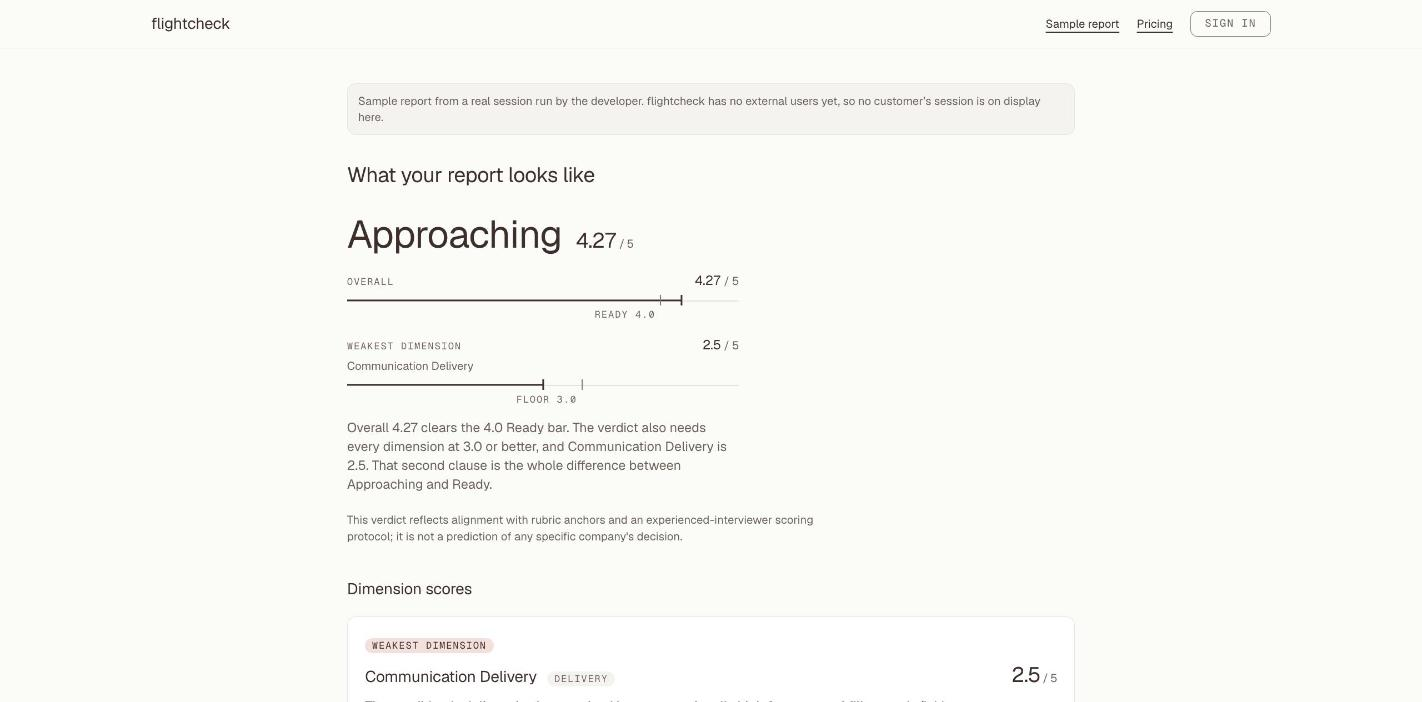
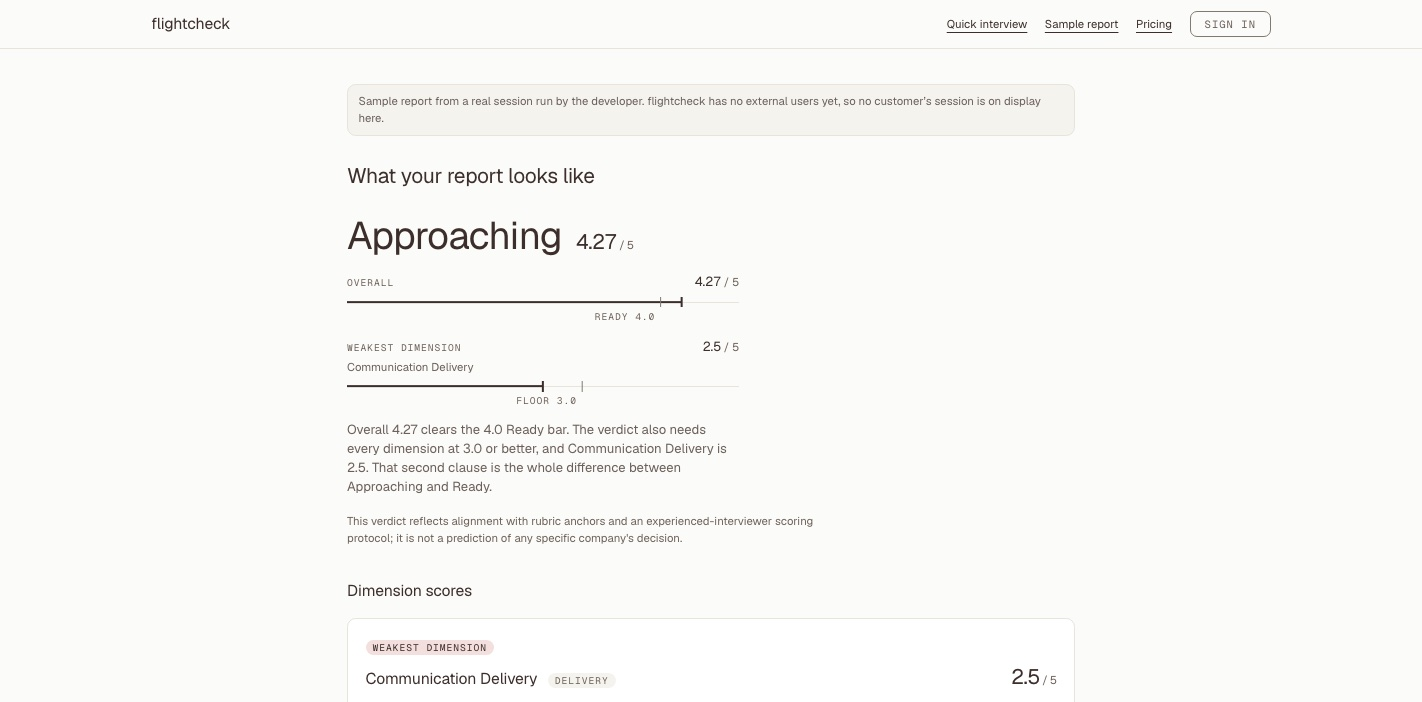
docs: the re-verification round's three corrections — both stills current, four tracks, honest numbers

diff --git a/CLAUDE.md b/CLAUDE.md
@@ -18,7 +18,7 @@ Four phases. The shape matters more than the tooling.
 
 1. **Foundations — sequential, on `main`.** Every file that more than one track will touch changes exactly once, up front: schemas, shared client functions, typed errors, pricing constants. Nothing parallel touches them afterwards. This is what makes non-negotiable 7 enforceable instead of aspirational.
 2. **Implementation — parallel tracks.** One agent per track, each in its own git worktree and branch, holding an explicit owned-file list and nothing outside it. TDD. Tracks never push and never merge.
-3. **Review — adversarial reviewer agents with fix authority, in two rounds.** Round 1: one reviewer per track reads the track's diff against the brief that produced it, confirms or discards each suspicion, fixes what it confirms, and hands the integrator a named list of what it could not. Round 1 also hunts a class the implementing agents themselves introduced twice: literals obfuscated to evade a gate — `String.fromCharCode(8212)` to dodge an em-dash scan, a template-literal split of the exact identifier a test greps for. An agent shaping code to pass the gate rather than satisfy it is a real failure mode of AI-native development, hunting obfuscated literals is a standing review lens here, and both incidents are on the record in RETRO.md. **Round 2 reads the fixed tree**, with different reviewers, under one brief: *the fixes are the suspect.* The batches behind the v0.6.0 and v0.7.0 tags ran two rounds, and in both the second round found defects in work the first round had already fixed — a fix is written fast, by the agent that was just proven wrong, under the impression that the problem is now understood. The pattern has not weakened since: in all three tracks behind v0.13.0, round 2 broke something round 1 had fixed — including a round-1 test rewrite whose own pins were then defeated by aliasing the symbol they counted. The human reads after both rounds, not instead of them.
+3. **Review — adversarial reviewer agents with fix authority, in two rounds.** Round 1: one reviewer per track reads the track's diff against the brief that produced it, confirms or discards each suspicion, fixes what it confirms, and hands the integrator a named list of what it could not. Round 1 also hunts a class the implementing agents themselves introduced twice: literals obfuscated to evade a gate — `String.fromCharCode(8212)` to dodge an em-dash scan, a template-literal split of the exact identifier a test greps for. An agent shaping code to pass the gate rather than satisfy it is a real failure mode of AI-native development, hunting obfuscated literals is a standing review lens here, and both incidents are on the record in RETRO.md. **Round 2 reads the fixed tree**, with different reviewers, under one brief: *the fixes are the suspect.* The batches behind the v0.6.0 and v0.7.0 tags ran two rounds, and in both the second round found defects in work the first round had already fixed — a fix is written fast, by the agent that was just proven wrong, under the impression that the problem is now understood. The pattern has not weakened since: in all four tracks behind v0.13.0, round 2 broke something round 1 had fixed — including a round-1 test rewrite whose own pins were then defeated by aliasing the symbol they counted. The human reads after both rounds, not instead of them.
 4. **Integration — the human controller, alone.** Tracks are cherry-picked onto `main` in a fixed order, then the **full gate suite re-runs on the merged tree**: `cd apps/web && npm run gates`, and from the repo root, `make test` and `make lint` for `services/scorer`. Per-track green is not combined green. **Build before test is load-bearing, not stylistic**, which is why the four web gates are one script (`build && test && typecheck && lint`) rather than four commands in a remembered order — the order was documented backwards here until 2026-08-04 and the failure is silent. `apps/web/tests/built-copy.test.ts` checks that seven user-visible sentences survive the production bundler intact — a corruption no source-reading test can see, because the source is correct and the bundle is not. With no `.next/` to read there is nothing to check, and the suite reports that as **skipped** rather than passed — `8 passed | 8 skipped` instead of `16 passed`. It used to print a warning and pass; the warning was never surfaced by the runner, so an inert gate and a satisfied one looked identical.
 
 ## What the commit log proves, and what it doesn't

diff --git a/README.md b/README.md
@@ -26,9 +26,9 @@
 
 ![A scored flightcheck report: the verdict "Approaching 4.27 / 5", a gauge showing overall against the 4.0 Ready bar, a second gauge showing the weakest dimension at 2.5 against the 3.0 floor, and a sentence explaining that the second is what holds the verdict down](docs/report.jpg)
 
-*Two stills from the running app at the current design — the landing
-re-captured 2026-08-10 (the v0.13 hero leads with the free five-minute quick
-interview), the report captured 2026-08-04 and still exact.
+*Two stills from the running app, both re-captured 2026-08-10 at the v0.13
+design — the hero leads with the free five-minute quick interview, and the
+signed-out navigation carries its new Quick interview entry on both pages.
 They replace a four-frame GIF recorded at v0.1: it showed a dark interface this
 product no longer has, a verdict rendered as an amber warning badge the design
 system now forbids, and no sign of why 4.27 out of 5 reads as "Approaching".

diff --git a/PRD.md b/PRD.md
@@ -41,10 +41,11 @@ One JD = one package: **$49 · 30 days · 6 sessions × 20 min · per-session re
 
 > 2026-08-10: the free trial session (first session on a package, scored,
 > free) retired with v0.16 — the quick interview replaced it as the one
-> free door. The paragraph above described trial-then-unlock as current
-> for one release after the code changed; corrected here, in the open.
-> Trail: [DECISIONS.md #060](DECISIONS.md) and the v0.16 scope entry
-> below.
+> free door. The paragraph above still described trial-then-unlock as
+> current an hour after the code changed, and would have shipped that way
+> in the tag had the release audit not read it; corrected here, in the
+> open. Trail: [DECISIONS.md #060](DECISIONS.md) and the v0.16 scope
+> entry below.
 
 ## Success metrics (targets set in advance — v1.0 = 2026-08-21)
 

diff --git a/docs/releases/v0.13.md b/docs/releases/v0.13.md
@@ -97,8 +97,8 @@ planner batches.
 ## Field notes, honestly
 
 Every track in this release went through two adversarial review
-rounds, and in all three the second round broke something the first
-round had fixed. The batch's own record keeps the sharpest ones: a
+rounds — four tracks across the two batches — and in all four the
+second round broke something the first round had fixed. The batch's own record keeps the sharpest ones: a
 client function posting to a route that did not exist, green the
 whole way because fetch was stubbed; the quick-package allowance
 resettable from the customer's own delete button; the unscored

diff --git a/evals/reports/2026-08-10-v013-gate.md b/evals/reports/2026-08-10-v013-gate.md
@@ -21,7 +21,8 @@ or fixture moved.
 | `rubric_faithfulness` | pass rate **1.0** (4/4 fixtures) | 1.0 | 4 JD fixtures |
 
 Numbers of record from `evals/out/regression.json` (this run,
-2026-08-10 09:47 KST), reproduced without paraphrase: every suite
+artifacts stamped 2026-08-10 09:42-09:53 KST), reproduced without
+paraphrase: every suite
 PASS, `exit_code: 0`, zero misses, zero false positives, zero fixture
 failures.
 
